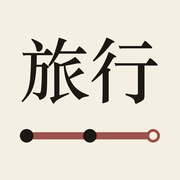
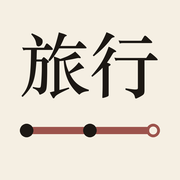
圖示：字與路線整組再上移（畫布高 3%）；快取升 v4

diff --git a/sw.js b/sw.js
@@ -1,6 +1,6 @@
 // 旅ことば service worker
 // 同一個 github.io origin 上還有別的 PWA：只刪自己的舊快取、只攔自己子路徑的請求。
-const CACHE_VERSION = 'tabi-kotoba-v3';
+const CACHE_VERSION = 'tabi-kotoba-v4';
 const AUDIO_CACHE = 'tabi-kotoba-audio'; // 不帶版本號：改版不清掉已下載的發音
 const CORE = [
   './',

diff --git a/tools/make_icons.py b/tools/make_icons.py
@@ -13,11 +13,12 @@ TEXT = "旅行"
 GROUND = (0xF5, 0xEF, 0xE3)   # 米色底
 INK = (0x1C, 0x18, 0x14)      # 墨色：字與實心站點
 LINE = (0x9C, 0x53, 0x4C)     # 朱赭（緊急・求助那組色票的主色）
+LIFT = 0.03                   # 整組比正中間再往上移（畫布高的比例）：幾何置中看起來偏下（2026-09-25 使用者要求「再上移一點」）
 
 
 def draw(size, scale=1.0):
-    """先把字與路線畫在透明圖層，量出實際筆畫範圍後整組置中：上下留白等寬、左右留白等寬
-    （2026-09-25 使用者要求上下界等寬；原本字的位置是目測，上方留白比下方多約一半）"""
+    """先把字與路線畫在透明圖層，量出實際筆畫範圍後整組置中（左右等寬），再依 LIFT 往上移一點
+    （2026-09-25 使用者先要求上下界等寬，再要求整組上移一點）"""
     S = 1024
     k = scale
     layer = Image.new("RGBA", (S, S), (0, 0, 0, 0))
@@ -41,7 +42,7 @@ def draw(size, scale=1.0):
             d.ellipse([x - r, y - r, x + r, y + r], fill=GROUND + (255,), outline=LINE + (255,), width=int(16 * k))
     group = layer.crop(layer.getbbox())
     img = Image.new("RGB", (S, S), GROUND)
-    img.paste(group, ((S - group.width) // 2, (S - group.height) // 2), group)
+    img.paste(group, ((S - group.width) // 2, (S - group.height) // 2 - int(S * LIFT * k)), group)
     return img.resize((size, size), Image.LANCZOS)
 
 
